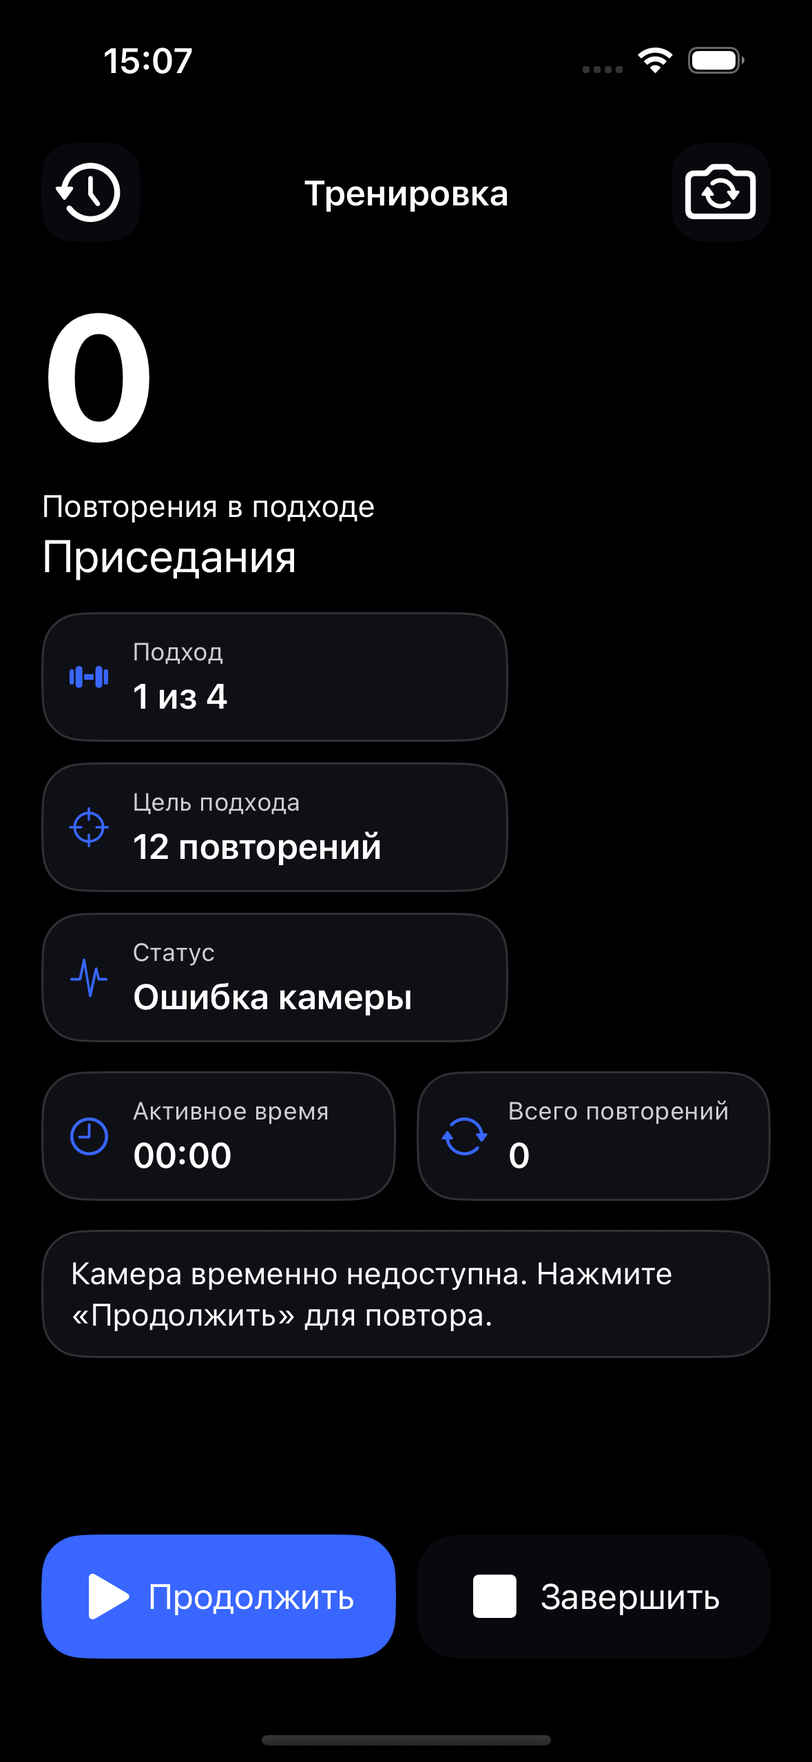
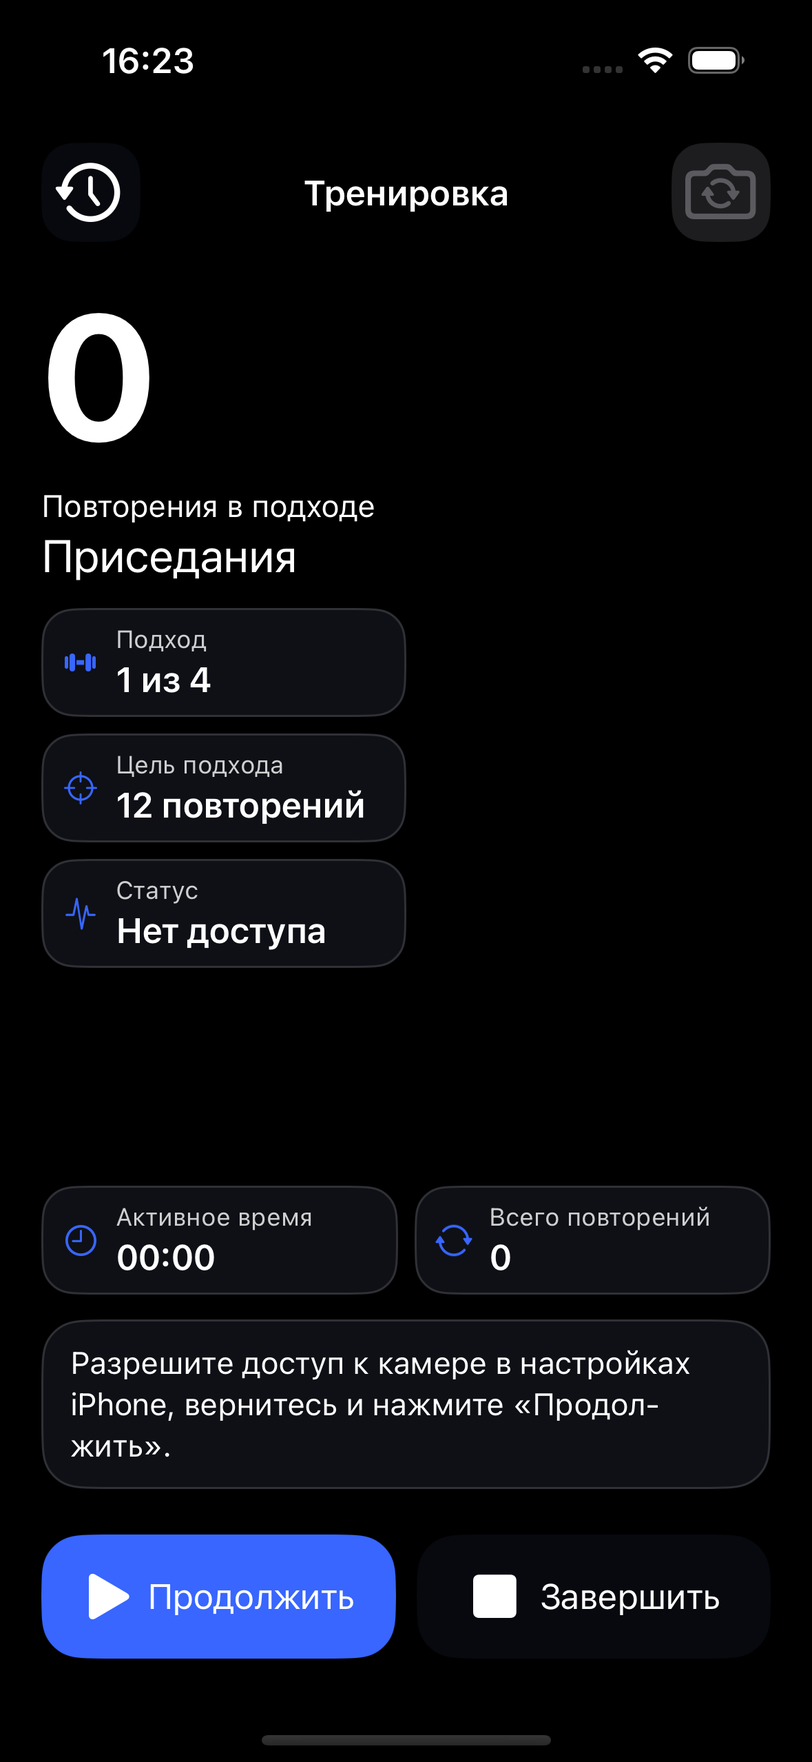
Polish compact workout cards and camera contrast

diff --git a/RepsCounterTests/PortfolioUITests.swift b/RepsCounterTests/PortfolioUITests.swift
@@ -165,6 +165,9 @@ final class PortfolioUITests: XCTestCase {
                     let control = try button(identifier, in: dashboard)
                     XCTAssertGreaterThanOrEqual(control.bounds.width, 44, context + " " + identifier)
                     XCTAssertGreaterThanOrEqual(control.bounds.height, 44, context + " " + identifier)
+                    if identifier == "workoutHistoryButton" || identifier == "cameraSwitchButton" {
+                        XCTAssertLessThanOrEqual(control.convert(control.bounds, to: dashboard).maxY, desiredInsets.top + 72, context)
+                    }
                     let image = try XCTUnwrap(control.imageView)
                     XCTAssertTrue(control.bounds.contains(image.convert(image.bounds, to: control)), context + " " + identifier)
                 }
@@ -195,6 +198,123 @@ final class PortfolioUITests: XCTestCase {
                 }
             }
         }
+    }
+
+    @MainActor
+    func testCompactMetricsLeaveTheRightHalfAvailableAtDefaultTextSize() throws {
+        let dashboard = WorkoutDashboardView(frame: CGRect(x: 0, y: 0, width: 393, height: 852))
+        dashboard.traitOverrides.preferredContentSizeCategory = .large
+        dashboard.render(state(), cameraState: .running)
+        dashboard.layoutIfNeeded()
+        for identifier in ["workoutSet", "workoutGoal", "workoutStatus"] {
+            let card = try metricCard(identifier, in: dashboard)
+            let frame = card.convert(card.bounds, to: dashboard)
+            XCTAssertLessThanOrEqual(frame.maxX, dashboard.bounds.midX + 0.5, identifier)
+            XCTAssertLessThanOrEqual(frame.height, 56, identifier)
+            let content = try label(identifier, in: dashboard)
+            let needed = content.sizeThatFits(CGSize(width: content.bounds.width, height: .greatestFiniteMagnitude))
+            XCTAssertGreaterThanOrEqual(content.bounds.height + 0.5, needed.height, identifier)
+        }
+        XCTAssertGreaterThanOrEqual(try label("workoutCount", in: dashboard).font.pointSize, 86)
+        let count = try label("workoutCount", in: dashboard)
+        XCTAssertLessThan(count.convert(count.bounds, to: dashboard).minY, dashboard.bounds.height / 4)
+        let summary = try metricCard("workoutTime", in: dashboard)
+        XCTAssertGreaterThan(summary.convert(summary.bounds, to: dashboard).minY, dashboard.bounds.height * 0.7)
+    }
+
+    @MainActor
+    func testBackdropPreservesBrightAndDarkCameraMidtones() throws {
+        let size = CGSize(width: 393, height: 852)
+        let backdrop = WorkoutBackdropView(frame: CGRect(origin: .zero, size: size))
+        backdrop.layoutIfNeeded()
+        let format = UIGraphicsImageRendererFormat()
+        format.scale = 1
+        format.preferredRange = .standard
+        for brightness in [CGFloat(0.96), CGFloat(0.16)] {
+            let image = UIGraphicsImageRenderer(size: size, format: format).image { context in
+                UIColor(white: brightness, alpha: 1).setFill()
+                context.fill(CGRect(origin: .zero, size: size))
+                backdrop.layer.render(in: context.cgContext)
+            }
+            let source = try XCTUnwrap(image.cgImage)
+            let sample = try XCTUnwrap(source.cropping(to: CGRect(x: 330, y: 426, width: 1, height: 1)))
+            var bytes = [UInt8](repeating: 0, count: 4)
+            let measured = try bytes.withUnsafeMutableBytes { storage -> CGFloat in
+                let context = try XCTUnwrap(CGContext(data: storage.baseAddress, width: 1, height: 1, bitsPerComponent: 8,
+                                                     bytesPerRow: 4, space: CGColorSpaceCreateDeviceRGB(),
+                                                     bitmapInfo: CGImageAlphaInfo.premultipliedLast.rawValue))
+                context.draw(sample, in: CGRect(x: 0, y: 0, width: 1, height: 1))
+                return CGFloat(storage[0]) / 255
+            }
+            XCTAssertGreaterThan(measured / brightness, 0.85)
+        }
+    }
+
+    @MainActor
+    func testWorkoutVisualFixtureUsesMatchingGeometryAndStateOnBrightAndDarkBackgrounds() async throws {
+        let scene = try XCTUnwrap(UIApplication.shared.connectedScenes.compactMap { $0 as? UIWindowScene }.first)
+        let window = UIWindow(windowScene: scene)
+        let controller = DashboardRenderController()
+        let appeared = expectation(description: "Visual fixture appeared")
+        controller.onAppear = { appeared.fulfill() }
+        let dashboard = WorkoutDashboardView()
+        controller.view = dashboard
+        let viewport = CGSize(width: 393, height: 852)
+        window.frame = CGRect(origin: .zero, size: viewport)
+        window.rootViewController = controller
+        window.isHidden = false
+        defer { window.isHidden = true }
+        await fulfillment(of: [appeared], timeout: 3)
+        window.layoutIfNeeded()
+        let nativeInsets = dashboard.safeAreaInsets
+        controller.additionalSafeAreaInsets = UIEdgeInsets(top: 59 - nativeInsets.top, left: -nativeInsets.left,
+                                                          bottom: 34 - nativeInsets.bottom, right: -nativeInsets.right)
+        let cameraFixture = WorkoutVisualFixtureView(skeleton: false)
+        let backdrop = WorkoutBackdropView()
+        let skeletonFixture = WorkoutVisualFixtureView(skeleton: true)
+        for (index, layer) in [cameraFixture, backdrop, skeletonFixture].enumerated() {
+            layer.frame = dashboard.bounds
+            layer.autoresizingMask = [.flexibleWidth, .flexibleHeight]
+            dashboard.insertSubview(layer, at: index)
+        }
+        for brightness in [CGFloat(0.96), CGFloat(0.16)] {
+            cameraFixture.brightness = brightness
+            cameraFixture.setNeedsDisplay()
+            controller.traitOverrides.preferredContentSizeCategory = .large
+            dashboard.render(state(), cameraState: .running)
+            dashboard.updateCameraControl(canSwitch: true, position: .front)
+            dashboard.layoutIfNeeded()
+            XCTAssertEqual(try label("workoutCount", in: dashboard).text, "7")
+            XCTAssertEqual(try label("workoutTotal", in: dashboard).text, "31")
+            let name = brightness > 0.5 ? "Bright" : "Dark"
+            let image = UIGraphicsImageRenderer(size: viewport).image { _ in
+                dashboard.drawHierarchy(in: dashboard.bounds, afterScreenUpdates: true)
+            }
+            let attachment = XCTAttachment(image: image)
+            attachment.name = "\(name) UIKit fixture — synthetic background, body, pose and values"
+            attachment.lifetime = .keepAlways
+            add(attachment)
+            var metrics: [String: [String: CGFloat]] = [:]
+            for identifier in ["workoutSet", "workoutGoal", "workoutStatus", "workoutTime", "workoutTotal"] {
+                let card = try metricCard(identifier, in: dashboard)
+                let frame = card.convert(card.bounds, to: dashboard)
+                metrics[identifier] = ["width": frame.width, "height": frame.height, "area": frame.width * frame.height, "top": frame.minY]
+            }
+            let measurement = XCTAttachment(data: try JSONSerialization.data(withJSONObject: metrics, options: [.sortedKeys]), uniformTypeIdentifier: "public.json")
+            measurement.name = "\(name) fixture metric frames"
+            measurement.lifetime = .keepAlways
+            add(measurement)
+        }
+    }
+
+    @MainActor
+    private func metricCard(_ identifier: String, in container: UIView) throws -> UIVisualEffectView {
+        var ancestor = try label(identifier, in: container).superview
+        while let current = ancestor {
+            if let surface = current as? UIVisualEffectView { return surface }
+            ancestor = current.superview
+        }
+        throw NSError(domain: "Missing metric card", code: 1)
     }
 
     @MainActor
@@ -238,6 +358,69 @@ final class PortfolioUITests: XCTestCase {
             ancestor = current.superview
         }
         return false
+    }
+}
+
+private final class WorkoutVisualFixtureView: UIView {
+    var brightness: CGFloat = 0.96
+    private let skeleton: Bool
+    private let joints: [CGPoint] = [CGPoint(x: 278, y: 200), CGPoint(x: 246, y: 244), CGPoint(x: 312, y: 244),
+                                    CGPoint(x: 252, y: 374), CGPoint(x: 302, y: 374), CGPoint(x: 226, y: 475),
+                                    CGPoint(x: 326, y: 475), CGPoint(x: 244, y: 655), CGPoint(x: 313, y: 655)]
+    private let segments = [(0, 1), (0, 2), (1, 2), (1, 3), (2, 4), (3, 4), (3, 5), (4, 6), (5, 7), (6, 8)]
+
+    init(skeleton: Bool) {
+        self.skeleton = skeleton
+        super.init(frame: .zero)
+        backgroundColor = .clear
+        isOpaque = false
+        isUserInteractionEnabled = false
+        isAccessibilityElement = false
+    }
+
+    required init?(coder: NSCoder) { nil }
+
+    override func draw(_ rectangle: CGRect) {
+        guard let context = UIGraphicsGetCurrentContext() else { return }
+        context.saveGState()
+        context.scaleBy(x: bounds.width / 393, y: bounds.height / 852)
+        if skeleton {
+            context.setStrokeColor(UIColor.systemBlue.cgColor)
+            context.setLineWidth(2)
+            context.setLineCap(.round)
+            for segment in segments {
+                context.move(to: joints[segment.0])
+                context.addLine(to: joints[segment.1])
+            }
+            context.strokePath()
+            context.setFillColor(UIColor.white.cgColor)
+            for joint in joints {
+                context.fillEllipse(in: CGRect(x: joint.x - 3, y: joint.y - 3, width: 6, height: 6))
+            }
+        } else {
+            context.setFillColor(UIColor(white: brightness, alpha: 1).cgColor)
+            context.fill(CGRect(x: 0, y: 0, width: 393, height: 852))
+            context.setStrokeColor(UIColor(white: brightness > 0.5 ? 0.82 : 0.26, alpha: 1).cgColor)
+            context.setLineWidth(1)
+            for offset in stride(from: 0, through: 852, by: 64) {
+                context.move(to: CGPoint(x: 0, y: offset))
+                context.addLine(to: CGPoint(x: 393, y: offset))
+            }
+            context.strokePath()
+            let bodyColor = UIColor(red: 0.30, green: 0.40, blue: 0.46, alpha: 1).cgColor
+            context.setFillColor(bodyColor)
+            context.fillEllipse(in: CGRect(x: 252, y: 148, width: 52, height: 60))
+            context.fill(CGRect(x: 248, y: 238, width: 60, height: 140))
+            context.setStrokeColor(bodyColor)
+            context.setLineWidth(30)
+            context.setLineCap(.round)
+            for segment in segments where segment.0 >= 3 {
+                context.move(to: joints[segment.0])
+                context.addLine(to: joints[segment.1])
+            }
+            context.strokePath()
+        }
+        context.restoreGState()
     }
 }
 

diff --git a/RepsCounter/Presentation/WorkoutDashboardView.swift b/RepsCounter/Presentation/WorkoutDashboardView.swift
@@ -25,10 +25,10 @@ enum WorkoutAppearance {
         return label
     }
 
-    static func surfaceView() -> UIVisualEffectView {
+    static func surfaceView(cornerRadius: CGFloat = 20) -> UIVisualEffectView {
         let surface = UIVisualEffectView(effect: UIBlurEffect(style: .systemThinMaterialDark))
         surface.contentView.backgroundColor = Self.surface
-        surface.layer.cornerRadius = 20
+        surface.layer.cornerRadius = cornerRadius
         surface.layer.cornerCurve = .continuous
         surface.layer.borderWidth = 1
         surface.layer.borderColor = UIColor.white.withAlphaComponent(0.14).cgColor
@@ -140,7 +140,7 @@ final class WorkoutDashboardView: UIView {
         scrollView.translatesAutoresizingMaskIntoConstraints = false
         addSubview(scrollView)
         contentStack.axis = .vertical
-        contentStack.spacing = 14
+        contentStack.spacing = 12
         contentStack.alignment = .leading
         contentStack.translatesAutoresizingMaskIntoConstraints = false
         scrollView.addSubview(contentStack)
@@ -148,12 +148,19 @@ final class WorkoutDashboardView: UIView {
         exerciseLabel.accessibilityTraits = .header
         let caption = WorkoutAppearance.label("workoutCountCaption", style: .subheadline)
         caption.text = "Повторения в подходе"
+        for label in [countLabel, caption, exerciseLabel, titleLabel] {
+            label.layer.shadowColor = UIColor.black.cgColor
+            label.layer.shadowOpacity = 1
+            label.layer.shadowRadius = 3
+            label.layer.shadowOffset = CGSize(width: 0, height: 1)
+            label.clipsToBounds = false
+        }
         let hero = UIStackView(arrangedSubviews: [countLabel, caption, exerciseLabel])
         hero.axis = .vertical
         hero.spacing = 2
         contentStack.addArrangedSubview(hero)
         cardsStack.axis = .vertical
-        cardsStack.spacing = 10
+        cardsStack.spacing = 8
         cardsStack.addArrangedSubview(card(title: "Подход", symbol: "dumbbell.fill", value: setLabel))
         cardsStack.addArrangedSubview(card(title: "Цель подхода", symbol: "scope", value: goalLabel))
         cardsStack.addArrangedSubview(card(title: "Статус", symbol: "waveform.path.ecg", value: statusLabel))
@@ -161,7 +168,14 @@ final class WorkoutDashboardView: UIView {
         restCard = rest
         cardsStack.addArrangedSubview(rest)
         contentStack.addArrangedSubview(cardsStack)
-        summaryStack.spacing = 10
+        let cameraSpace = UIView()
+        let collapsedSpace = cameraSpace.heightAnchor.constraint(equalToConstant: 0)
+        collapsedSpace.priority = .fittingSizeLevel
+        collapsedSpace.isActive = true
+        cameraSpace.heightAnchor.constraint(greaterThanOrEqualToConstant: 0).isActive = true
+        contentStack.addArrangedSubview(cameraSpace)
+        contentStack.setCustomSpacing(0, after: cameraSpace)
+        summaryStack.spacing = 8
         summaryStack.distribution = .fillEqually
         summaryStack.addArrangedSubview(card(title: "Активное время", symbol: "clock", value: timeLabel))
         summaryStack.addArrangedSubview(card(title: "Всего повторений", symbol: "arrow.triangle.2.circlepath", value: totalLabel))
@@ -177,7 +191,7 @@ final class WorkoutDashboardView: UIView {
         ])
         contentStack.addArrangedSubview(guidance)
         for section in [hero, summaryStack, guidance] { section.widthAnchor.constraint(equalTo: contentStack.widthAnchor).isActive = true }
-        narrowCards = cardsStack.widthAnchor.constraint(equalTo: contentStack.widthAnchor, multiplier: 0.64)
+        narrowCards = cardsStack.widthAnchor.constraint(equalTo: contentStack.widthAnchor, multiplier: 0.50)
         wideCards = cardsStack.widthAnchor.constraint(equalTo: contentStack.widthAnchor)
         controls.accessibilityIdentifier = "workoutControls"
         controls.spacing = 10
@@ -195,6 +209,7 @@ final class WorkoutDashboardView: UIView {
         addSubview(controls)
         NSLayoutConstraint.activate([
             toolbar.topAnchor.constraint(equalTo: safeAreaLayoutGuide.topAnchor, constant: 10),
+            toolbar.heightAnchor.constraint(equalToConstant: 48),
             toolbar.leadingAnchor.constraint(equalTo: safeAreaLayoutGuide.leadingAnchor, constant: 20),
             toolbar.trailingAnchor.constraint(equalTo: safeAreaLayoutGuide.trailingAnchor, constant: -20),
             scrollView.topAnchor.constraint(equalTo: toolbar.bottomAnchor, constant: 14),
@@ -206,6 +221,7 @@ final class WorkoutDashboardView: UIView {
             contentStack.leadingAnchor.constraint(equalTo: scrollView.contentLayoutGuide.leadingAnchor),
             contentStack.trailingAnchor.constraint(equalTo: scrollView.contentLayoutGuide.trailingAnchor),
             contentStack.widthAnchor.constraint(equalTo: scrollView.frameLayoutGuide.widthAnchor),
+            contentStack.heightAnchor.constraint(greaterThanOrEqualTo: scrollView.frameLayoutGuide.heightAnchor, constant: -8),
             controls.leadingAnchor.constraint(equalTo: safeAreaLayoutGuide.leadingAnchor, constant: 20),
             controls.trailingAnchor.constraint(equalTo: safeAreaLayoutGuide.trailingAnchor, constant: -20),
             controls.bottomAnchor.constraint(equalTo: safeAreaLayoutGuide.bottomAnchor, constant: -16)
@@ -213,28 +229,28 @@ final class WorkoutDashboardView: UIView {
     }
 
     private func card(title: String, symbol: String, value: UILabel) -> UIView {
-        let surface = WorkoutAppearance.surfaceView()
+        let surface = WorkoutAppearance.surfaceView(cornerRadius: 16)
         let caption = WorkoutAppearance.label("", style: .caption1)
         caption.text = title
         caption.textColor = UIColor.white.withAlphaComponent(0.8)
         let icon = UIImageView(image: UIImage(systemName: symbol))
         icon.tintColor = WorkoutAppearance.accent
         icon.contentMode = .scaleAspectFit
-        icon.widthAnchor.constraint(equalToConstant: 22).isActive = true
-        icon.heightAnchor.constraint(equalToConstant: 22).isActive = true
+        icon.widthAnchor.constraint(equalToConstant: 18).isActive = true
+        icon.heightAnchor.constraint(equalToConstant: 18).isActive = true
         let texts = UIStackView(arrangedSubviews: [caption, value])
         texts.axis = .vertical
-        texts.spacing = 4
+        texts.spacing = 2
         let row = UIStackView(arrangedSubviews: [icon, texts])
         row.alignment = .center
-        row.spacing = 10
+        row.spacing = 8
         row.translatesAutoresizingMaskIntoConstraints = false
         surface.contentView.addSubview(row)
         NSLayoutConstraint.activate([
-            row.topAnchor.constraint(equalTo: surface.contentView.topAnchor, constant: 12),
-            row.bottomAnchor.constraint(equalTo: surface.contentView.bottomAnchor, constant: -12),
-            row.leadingAnchor.constraint(equalTo: surface.contentView.leadingAnchor, constant: 12),
-            row.trailingAnchor.constraint(equalTo: surface.contentView.trailingAnchor, constant: -12)
+            row.topAnchor.constraint(equalTo: surface.contentView.topAnchor, constant: 8),
+            row.bottomAnchor.constraint(equalTo: surface.contentView.bottomAnchor, constant: -8),
+            row.leadingAnchor.constraint(equalTo: surface.contentView.leadingAnchor, constant: 10),
+            row.trailingAnchor.constraint(equalTo: surface.contentView.trailingAnchor, constant: -10)
         ])
         return surface
     }
@@ -327,9 +343,9 @@ final class WorkoutBackdropView: UIView {
     override init(frame: CGRect) {
         super.init(frame: frame)
         isUserInteractionEnabled = false
-        gradient.colors = [UIColor.black.withAlphaComponent(0.68).cgColor, UIColor.black.withAlphaComponent(0.52).cgColor,
-                           UIColor.black.withAlphaComponent(0.72).cgColor]
-        gradient.locations = [0, 0.55, 1]
+        gradient.colors = [UIColor.black.withAlphaComponent(0.30).cgColor, UIColor.black.withAlphaComponent(0.06).cgColor,
+                           UIColor.black.withAlphaComponent(0.34).cgColor]
+        gradient.locations = [0, 0.5, 1]
         layer.addSublayer(gradient)
     }
 

diff --git a/Docs/ARCHITECTURE.md b/Docs/ARCHITECTURE.md
@@ -116,10 +116,10 @@ The finished workout snapshot is retained separately from `.notSaved`, `.saving`
 
 `WorkoutDashboardView` renders the supplied `WorkoutViewState` and `CameraState`; it owns no clock, camera session, storage or repetition logic. Its closures forward history, camera switching, pause/resume and finish/retry to the controller's existing handlers. `WorkoutAppearance` shares MainActor-isolated colors and surface/label construction with history. The controller retains dependency assembly, camera coordinator callbacks, pending save alerts and preview configuration.
 
-The preview, a noninteractive gradient backdrop and the skeleton share the full screen bounds. The gradient is below the skeleton; pose geometry, mirroring and preview conversion are unchanged. The dashboard adds a large current-set counter, left-aligned translucent cards, separate elapsed-time/total-repetition summaries and fixed bottom actions. Values come from the model, including frozen rest on pause and success only after `.saved`.
+The preview, a noninteractive gradient backdrop and the skeleton share the full screen bounds. The gradient is below the skeleton; pose geometry, mirroring and preview conversion are unchanged. The dashboard adds a large current-set counter, left-aligned translucent cards, separate elapsed-time/total-repetition summaries and fixed bottom actions. Values come from the model, including frozen rest on pause and success only after `.saved`. The final polish narrows the default metric column from 64% to 50% of the content width and reduces card padding, decorative icon size and corner radius without reducing text size. The full-frame gradient now uses black alpha 0.30/0.06/0.34 instead of 0.68/0.52/0.72; local shadows protect the exposed white heading labels.
 
 An empty `UILaunchScreen` dictionary in the existing plist supplies the system launch screen without a storyboard, following [Apple's launch-screen configuration](https://developer.apple.com/documentation/bundleresources/information-property-list/uilaunchscreen). A fresh iPhone 15 Pro / iOS 18.6 Simulator launch exposed the missing configuration as a letterboxed app viewport. This minimal launch metadata change enables the full portrait viewport; scene registration, orientation and deployment settings remain unchanged. A built-plist regression verifies the dictionary and absence of launch storyboard keys.
 
-Auto Layout constrains the metric scroll view's content width to its frame. Only the body scrolls vertically when necessary. At accessibility text sizes, cards become full width, summaries and actions stack vertically, and the redundant toolbar title is hidden to preserve space. Text scales with Dynamic Type; symbol sizes stay within their touch targets. Toolbar and workout actions remain outside the scroll view. History uses automatic-height card cells and native iOS 17 empty/error content, preserving the injected store and its record order.
+Auto Layout constrains the metric scroll view's content width to its frame. A low-priority collapsible spacer keeps the summary near the bottom when space permits, leaving the center of the camera unobscured. The toolbar retains its 48 pt height. Only the body scrolls vertically when necessary. At accessibility text sizes, cards become full width, summaries and actions stack vertically, and the redundant toolbar title is hidden to preserve space. Text scales with Dynamic Type; symbol sizes stay within their touch targets. Toolbar and workout actions remain outside the scroll view. History uses automatic-height card cells and native iOS 17 empty/error content, preserving the injected store and its record order.
 
 Layout tests cover 375×667, 393×852 and 430×932 pt and all twelve content-size categories, actual font growth, text height, icon bounds, minimum touch targets and horizontal overflow. These checks do not replace VoiceOver, bright/dark live-camera readability or physical-device tests. Native permission and save alerts remain system UI. See [the concept mapping, validation and iPhone checklist](PORTFOLIO_UI.md).

diff --git a/README.md b/README.md
@@ -90,11 +90,13 @@ Dynamic Type scales text; accessibility sizes stack cards and actions vertically
 
 Concept-only settings, flash, sound/autostart switches, plans and profile are deferred because their functionality is absent. See [implemented elements, verification and physical-device checks](Docs/PORTFOLIO_UI.md). Status remains **In Development**.
 
-The following are **actual Release screenshots from iPhone 15 Pro / iOS 18.6 Simulator**, not concept images. The simulator has no usable camera, so it shows the camera error with a real zero result and an empty history; these images do not demonstrate pose accuracy.
+Final polish makes the metric column narrower, reduces card padding, moves the summary toward the bottom and lightens the camera backdrop. Text size and primary controls are preserved. The user reports that the initial PR #10 interface, skeleton, counter, finish and history work on iPhone 15 Pro; the new brightness/layout still needs device review. [Before/after comparisons](Docs/PORTFOLIO_UI.md#сравнение-допосле) use matching **synthetic UIKit fixtures**, clearly separated from camera screenshots and the concept.
+
+The following are **actual Release screenshots from iPhone 15 Pro / iOS 18.6 Simulator**, not concept images. The updated workout screenshot shows denied camera access with a real zero result; the history screenshot shows the empty state. These images do not demonstrate pose accuracy.
 
 | Workout | Empty history |
 |---|---|
-| <img src="Docs/UI/Workout-Simulator.png" width="260" alt="Release workout on Simulator, camera unavailable"> | <img src="Docs/UI/History-Empty-Simulator.png" width="260" alt="Release empty workout history on Simulator"> |
+| <img src="Docs/UI/Workout-Simulator.png" width="260" alt="Release workout on Simulator, camera access denied"> | <img src="Docs/UI/History-Empty-Simulator.png" width="260" alt="Release empty workout history on Simulator"> |
 
 ## MVP scope
 
